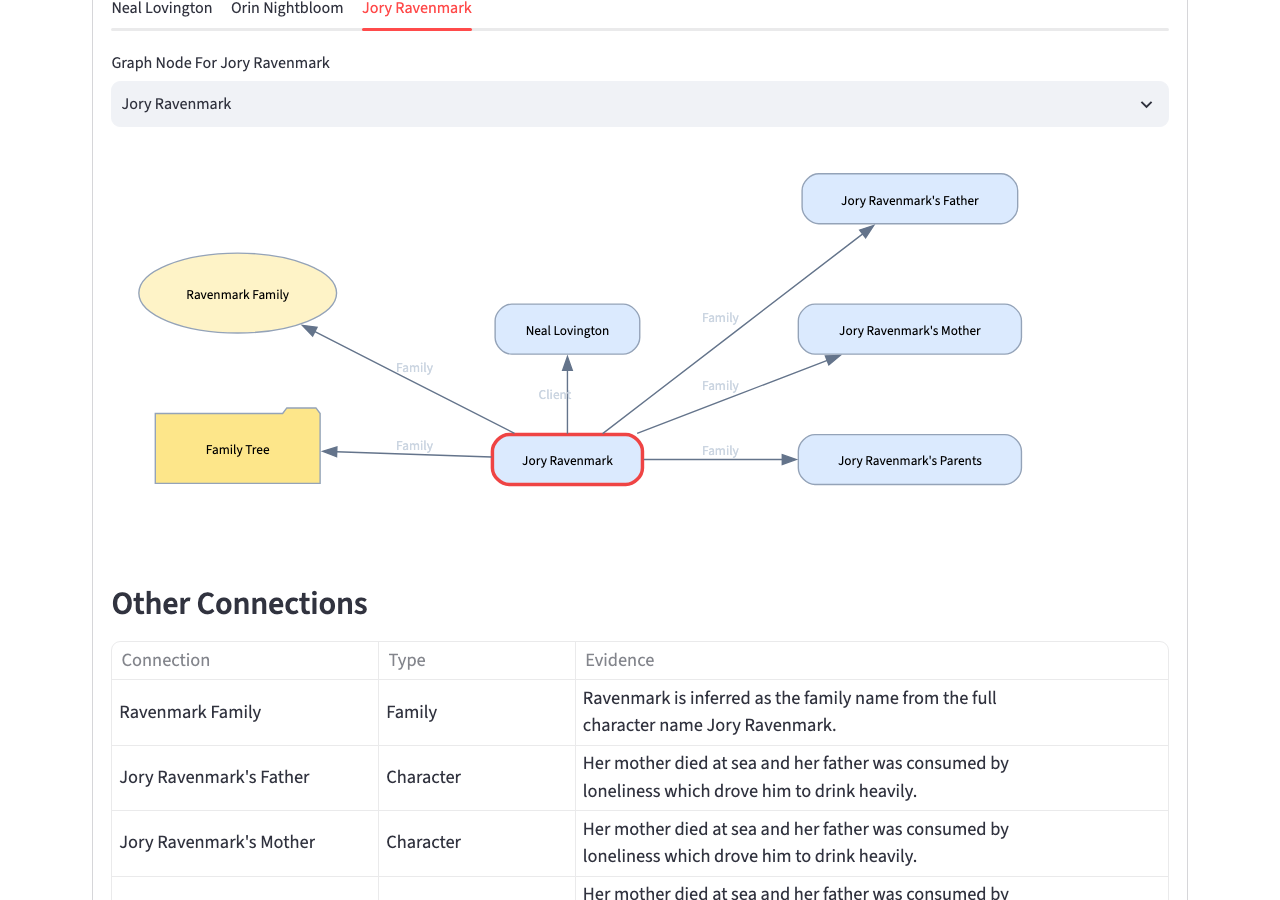
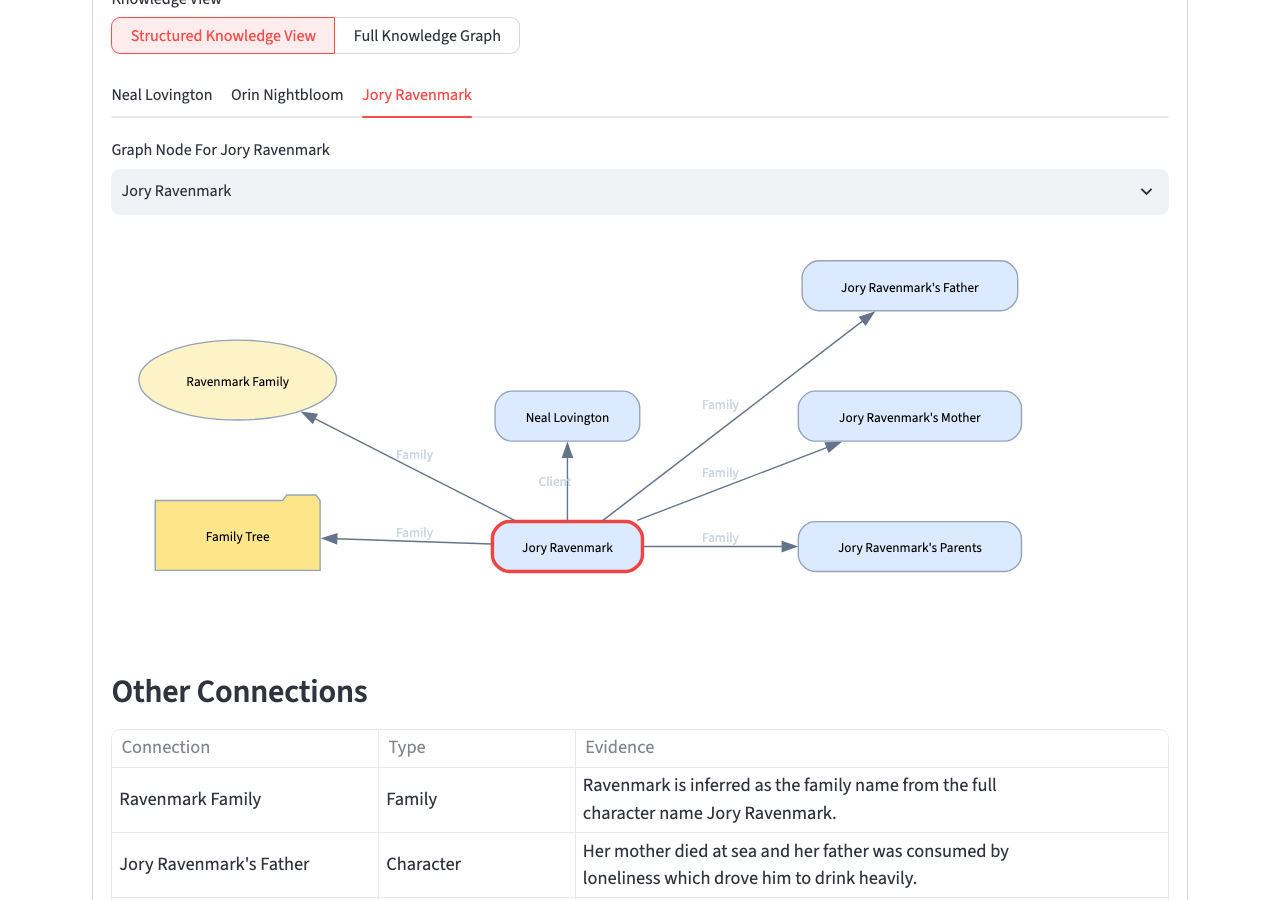
Split Structured Knowledge View and full graph view. Currently structured knowledge view and full graph view share the same underlying graph data structure, but it's a first step to isolating different rendering views.

diff --git a/streamlit_app.py b/streamlit_app.py
@@ -1,4 +1,4 @@
-from dataclasses import replace
+from dataclasses import dataclass, replace
 from datetime import date, datetime
 from pathlib import Path
 import os
@@ -106,6 +106,26 @@ LORE_BACKUP_IMPORT_SOURCE_KEY = "lore_backup_import_source"
 
 def lore_backups_disabled() -> bool:
     return os.environ.get(DISABLE_LORE_BACKUPS, "").strip().lower() in {"1", "true", "yes", "on"}
+
+
+@dataclass(frozen=True)
+class KnowledgeGraphView:
+    key: str
+    label: str
+
+
+STRUCTURED_KNOWLEDGE_VIEW = KnowledgeGraphView(
+    key="structured",
+    label="Structured Knowledge View",
+)
+FULL_KNOWLEDGE_GRAPH_VIEW = KnowledgeGraphView(
+    key="full_graph",
+    label="Full Knowledge Graph",
+)
+KNOWLEDGE_GRAPH_VIEWS = (
+    STRUCTURED_KNOWLEDGE_VIEW,
+    FULL_KNOWLEDGE_GRAPH_VIEW,
+)
 
 
 st.set_page_config(page_title="Character Builder", page_icon=":material/forum:", layout="wide")
@@ -611,118 +631,167 @@ def render_combined_character_graph() -> None:
             st.info("Add Main Character Or Place Lore To See Graph Roots.")
             return
         graph_revision = st.session_state.get("combined_graph_revision", 0)
-        graph_mode = "Single Character"
-        # st.segmented_control(
-        #     "Graph View",
-        #     ["Single Character", "Whole Graph"],
-        #     default=st.session_state.get("combined_graph_view_mode", "Single Character"),
-        #     key=f"combined_graph_view_mode_{graph_revision}",
-        #     width="content",
-        # )
-        st.session_state["combined_graph_view_mode"] = graph_mode or "Single Character"
-        character_tabs = st.tabs([node.name for node in character_nodes])
-        primary_ids = {compact(character.name) for character in characters}
-        characters_by_id = {compact(character.name): character for character in characters}
         main_character_ids = {node.id for node in character_nodes if node.node_type == "character"}
         main_place_ids = {node.id for node in character_nodes if node.node_type == "place"}
-        for tab, node in zip(character_tabs, character_nodes):
-            with tab:
-                character_id = node.id
-                node_options = combined_graph_root_node_options(character_nodes)
-                node_labels = list(node_options)
-                default_node_index = (
-                    node_labels.index(node.name)
-                    if node.name in node_options
-                    else 0
-                )
-                selected_node_label = st.selectbox(
-                    f"Graph Node For {node.name}",
-                    node_labels,
-                    index=default_node_index,
-                    key=f"combined_graph_node_{character_id}_{graph_revision}",
-                )
-                selected_node_id = node_options[selected_node_label]
-                focused_graph = (
-                    full_character_connection_graph(combined)
-                    if graph_mode == "Whole Graph"
-                    else other_connections_graph(combined, selected_node_id)
-                )
-                associated_rows = other_connection_rows(combined, selected_node_id)
-                node_detail_rows = combined_node_detail_rows(combined, selected_node_id)[:1]
-                st.graphviz_chart(
-                    combined_relationship_dot(
-                        focused_graph,
-                        selected_node_id,
-                        main_character_ids=main_character_ids,
-                        main_place_ids=main_place_ids,
-                        label_font_color=graph_edge_label_font_color(),
-                    ),
+        selected_view = selected_knowledge_graph_view(graph_revision)
+        if selected_view.key == FULL_KNOWLEDGE_GRAPH_VIEW.key:
+            render_full_knowledge_graph_view(
+                combined,
+                detail_rows,
+                main_character_ids,
+                main_place_ids,
+            )
+        else:
+            render_structured_knowledge_view(
+                combined,
+                detail_rows,
+                characters,
+                places,
+                character_nodes,
+                graph_revision,
+                main_character_ids,
+                main_place_ids,
+            )
+
+
+def selected_knowledge_graph_view(graph_revision: int) -> KnowledgeGraphView:
+    labels = [view.label for view in KNOWLEDGE_GRAPH_VIEWS]
+    selected_label = st.segmented_control(
+        "Knowledge View",
+        labels,
+        default=STRUCTURED_KNOWLEDGE_VIEW.label,
+        key=f"combined_knowledge_view_{graph_revision}",
+        width="content",
+    )
+    label_to_view = {view.label: view for view in KNOWLEDGE_GRAPH_VIEWS}
+    return label_to_view.get(selected_label or STRUCTURED_KNOWLEDGE_VIEW.label, STRUCTURED_KNOWLEDGE_VIEW)
+
+
+def render_structured_knowledge_view(
+    combined,
+    detail_rows,
+    characters,
+    places,
+    character_nodes,
+    graph_revision: int,
+    main_character_ids: set[str],
+    main_place_ids: set[str],
+) -> None:
+    character_tabs = st.tabs([node.name for node in character_nodes])
+    primary_ids = {compact(character.name) for character in characters}
+    characters_by_id = {compact(character.name): character for character in characters}
+    for tab, node in zip(character_tabs, character_nodes):
+        with tab:
+            character_id = node.id
+            node_options = combined_graph_root_node_options(character_nodes)
+            node_labels = list(node_options)
+            default_node_index = (
+                node_labels.index(node.name)
+                if node.name in node_options
+                else 0
+            )
+            selected_node_label = st.selectbox(
+                f"Graph Node For {node.name}",
+                node_labels,
+                index=default_node_index,
+                key=f"combined_graph_node_{character_id}_{graph_revision}",
+            )
+            selected_node_id = node_options[selected_node_label]
+            focused_graph = other_connections_graph(combined, selected_node_id)
+            associated_rows = other_connection_rows(combined, selected_node_id)
+            node_detail_rows = combined_node_detail_rows(combined, selected_node_id)[:1]
+            st.graphviz_chart(
+                combined_relationship_dot(
+                    focused_graph,
+                    selected_node_id,
+                    main_character_ids=main_character_ids,
+                    main_place_ids=main_place_ids,
+                    label_font_color=graph_edge_label_font_color(),
+                ),
+                width="stretch",
+            )
+            if associated_rows:
+                st.subheader("Other Connections")
+                st.table(associated_rows, hide_index=True, width="stretch")
+            else:
+                st.info("No Other Connections Were Found For This Node Yet.")
+            scoped_detail_rows = [
+                row
+                for row in detail_rows
+                if compact(row["Character"]) == character_id
+            ]
+            with st.expander("Extended Notes"):
+                st.table(
+                    node_detail_rows,
+                    hide_index=True,
                     width="stretch",
                 )
-                if associated_rows:
-                    st.subheader("Other Connections")
-                    st.table(associated_rows, hide_index=True, width="stretch")
-                else:
-                    st.info("No Other Connections Were Found For This Node Yet.")
-                scoped_detail_rows = [
-                    row
-                    for row in detail_rows
-                    if compact(row["Character"]) == character_id
-                ]
                 if scoped_detail_rows:
-                    with st.expander("Extended Notes"):
-                        st.table(
-                            node_detail_rows,
-                            hide_index=True,
-                            width="stretch",
-                        )
-                        st.subheader("Character Graph Details")
-                        st.table(scoped_detail_rows, hide_index=True, width="stretch")
-                else:
-                    with st.expander("Extended Notes"):
-                        st.table(
-                            node_detail_rows,
-                            hide_index=True,
-                            width="stretch",
-                        )
-                if st.button(
-                    "Add Character Connections",
-                    icon=":material/account_tree:",
-                    key=f"append_connections_{character_id}",
-                    disabled=character_id not in characters_by_id,
-                ):
-                    append_character_connections(characters_by_id[character_id], connection_rows_for_character(combined, character_id))
-                    mark_combined_graph_dirty()
-                    st.success("Character Connections Added.")
-                    st.rerun()
+                    st.subheader("Character Graph Details")
+                    st.table(scoped_detail_rows, hide_index=True, width="stretch")
+            if st.button(
+                "Add Character Connections",
+                icon=":material/account_tree:",
+                key=f"append_connections_{character_id}",
+                disabled=character_id not in characters_by_id,
+            ):
+                append_character_connections(characters_by_id[character_id], connection_rows_for_character(combined, character_id))
+                mark_combined_graph_dirty()
+                st.success("Character Connections Added.")
+                st.rerun()
 
-        secondary_characters = [
-            node
-            for node_id, node in combined.characters.items()
-            if node.node_type == "character"
-            and node_id not in primary_ids
-            and compact(node.name) not in {"sessionnotes", "sessionnote"}
-        ]
-        secondary_places = [
-            node
-            for node_id, node in combined.characters.items()
-            if node.node_type == "place" and not any(compact(place.name) == node_id for place in places)
-        ]
-        action_cols = st.columns(2)
-        with action_cols[0]:
-            if secondary_characters:
-                labels = [node.name for node in secondary_characters]
-                selected = st.selectbox("Secondary Character", labels, key="secondary_character_file")
-                if st.button("Create Character File", icon=":material/person_add:", key="create_secondary_character"):
-                    prepare_pending_character(selected)
-                    st.rerun()
-        with action_cols[1]:
-            if secondary_places:
-                labels = [node.name for node in secondary_places]
-                selected = st.selectbox("Secondary Place", labels, key="secondary_place_file")
-                if st.button("Create Place File", icon=":material/add_location_alt:", key="create_secondary_place"):
-                    prepare_pending_place(selected)
-                    st.rerun()
+    render_secondary_entity_creation_actions(combined, characters, places)
+
+
+def render_full_knowledge_graph_view(
+    combined,
+    detail_rows,
+    main_character_ids: set[str],
+    main_place_ids: set[str],
+) -> None:
+    st.graphviz_chart(
+        combined_relationship_dot(
+            full_character_connection_graph(combined),
+            main_character_ids=main_character_ids,
+            main_place_ids=main_place_ids,
+            label_font_color=graph_edge_label_font_color(),
+        ),
+        width="stretch",
+    )
+    if detail_rows:
+        with st.expander("Full Graph Details"):
+            st.table(detail_rows, hide_index=True, width="stretch")
+
+
+def render_secondary_entity_creation_actions(combined, characters, places) -> None:
+    primary_ids = {compact(character.name) for character in characters}
+    secondary_characters = [
+        node
+        for node_id, node in combined.characters.items()
+        if node.node_type == "character"
+        and node_id not in primary_ids
+        and compact(node.name) not in {"sessionnotes", "sessionnote"}
+    ]
+    secondary_places = [
+        node
+        for node_id, node in combined.characters.items()
+        if node.node_type == "place" and not any(compact(place.name) == node_id for place in places)
+    ]
+    action_cols = st.columns(2)
+    with action_cols[0]:
+        if secondary_characters:
+            labels = [node.name for node in secondary_characters]
+            selected = st.selectbox("Secondary Character", labels, key="secondary_character_file")
+            if st.button("Create Character File", icon=":material/person_add:", key="create_secondary_character"):
+                prepare_pending_character(selected)
+                st.rerun()
+    with action_cols[1]:
+        if secondary_places:
+            labels = [node.name for node in secondary_places]
+            selected = st.selectbox("Secondary Place", labels, key="secondary_place_file")
+            if st.button("Create Place File", icon=":material/add_location_alt:", key="create_secondary_place"):
+                prepare_pending_place(selected)
+                st.rerun()
 
 
 def load_lore_graphs():

diff --git a/tests/e2e/test_character_sheet_roundtrip_ui.py b/tests/e2e/test_character_sheet_roundtrip_ui.py
@@ -497,9 +497,11 @@ def test_capture_knowledge_graph_screenshot(isolated_character_app):
         expect(graph_expander).to_be_visible(timeout=10000)
         graph_expander.get_by_text("Combined Knowledge Graph", exact=True).click()
         expect(graph_expander.get_by_role("button", name="sync Regenerate All Lore Graphs")).to_be_visible(timeout=10000)
-        expect(graph_expander.get_by_role("tab").first).to_be_visible(timeout=10000)
+        expect(graph_expander.get_by_text("Structured Knowledge View", exact=True)).to_be_visible(timeout=10000)
+        expect(graph_expander.get_by_text("Full Knowledge Graph", exact=True)).to_be_visible(timeout=10000)
         expect(graph_expander.get_by_text("Before Selection", exact=True)).not_to_be_visible(timeout=10000)
         expect(graph_expander.get_by_text("Selected View", exact=True)).not_to_be_visible(timeout=10000)
+        expect(graph_expander.get_by_role("tab").first).to_be_visible(timeout=10000)
 
         graph_tab = graph_expander.get_by_role("tab", name=graph_node_name, exact=True)
         if graph_tab.count():
@@ -514,6 +516,26 @@ def test_capture_knowledge_graph_screenshot(isolated_character_app):
 
     assert screenshot_path.exists()
     assert screenshot_path.stat().st_size > 0
+
+
+def test_combined_graph_full_knowledge_graph_view_is_separate(isolated_character_app):
+    app_url, _docs_lore_dir, _characters_dir, _places_dir, _session_notes_dir, _data_dir = isolated_character_app
+
+    with sync_playwright() as playwright:
+        browser = playwright.chromium.launch()
+        page = browser.new_page(viewport={"width": 1280, "height": 900})
+        page.goto(app_url, wait_until="networkidle")
+
+        graph_expander = page.locator("[data-testid=stExpander]").filter(has_text="Combined Knowledge Graph")
+        expect(graph_expander).to_be_visible(timeout=10000)
+        graph_expander.get_by_text("Combined Knowledge Graph", exact=True).click()
+        expect(graph_expander.get_by_text("Structured Knowledge View", exact=True)).to_be_visible(timeout=10000)
+
+        graph_expander.get_by_text("Full Knowledge Graph", exact=True).click()
+        expect(graph_expander.get_by_role("img").first).to_be_visible(timeout=10000)
+        expect(graph_expander.get_by_text("Full Graph Details", exact=True)).to_be_visible(timeout=10000)
+        expect(graph_expander.get_by_label("Graph Node For Jory Ravenmark", exact=True)).not_to_be_visible(timeout=10000)
+        browser.close()
 
 
 def test_knowledge_graph_edge_labels_are_visible_for_position_review(isolated_character_app):

diff --git a/TODO.md b/TODO.md
@@ -3,11 +3,9 @@
 - Update `ui_issue_report.md` after UI bugs are fixed. 
 - Remove graph-edge report grade from the UI.
  
-We still aren't using the UI space efficiently.
-1) Neal Lovington is a player character and got moved out of the player character column.
-2) Secondary characters in the UI start from row 1 not row 0 which is odd._
 
 ## Knowledge Graph Display Columns
+
 Column 0: Family Names
 Column 1: Main Characters
 Column 2: Secondary Characters & places
@@ -18,7 +16,6 @@ Allow viewing the graph in two modes, one mode that shows the whole graph and on
 Update the connection type shown on the graph so it shows the most prominent connection between characters or places. 
 
 In the tabular view below, the graph shows each connection a separate table cell for each evidence field rather than combining them with a - characters. 
-
 
 ## Session Planing
 1) Get new screenshot of the existing behavior with the following test data `world_building/import/Session_Notes.txt`
@@ -39,13 +36,10 @@ Commit to `feature/knowledge_graph` prior to implementing changes
 - Updated README, release notes, and rewrite design docs to reflect graph-backed generation instead of model downloads.
 - Testing: run focused graph, rewrite, model-config, semantic-report, and character-generation tests before committing this section.
 
-### Bug Fixes
-- Remove the headings at the top of the knowledge graph page. They don't currently affect the UI, and they clutter up the UI.
-### Improvements
-- When clicking on a specific node in the graph, populate a table below the graph with detailed info about that node. 
-- Move the knowledge graph into a dedicated tab next to session notes
-
-## Completed
+### Structured Knowledge View
+- Lock down the current knowledge graph view under the name "Structured Knowledge View"
+- Refactor the code base so new knowledge views can be created without breaking the existing view.
+- Use the UI code that was formally used to display the full knowledge graph to test this out.
 
 ### Knowledge Graph UI Review And Detail Panel - 2026-07-18
 